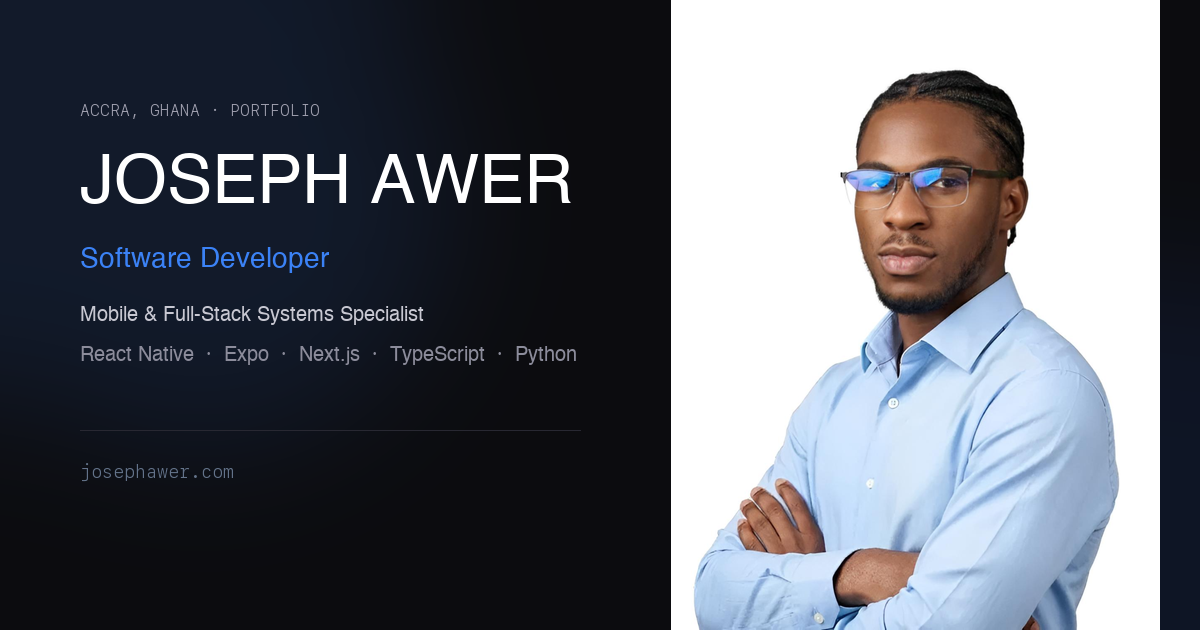
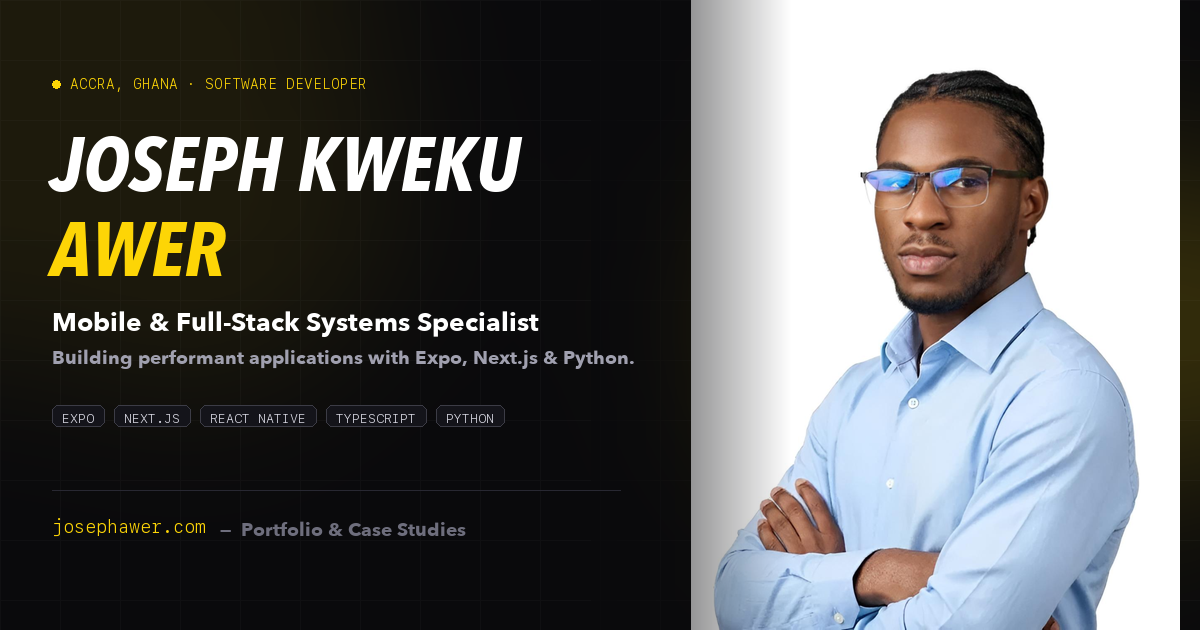
fix: update Open Graph image alt text with full name

diff --git a/src/app/layout.tsx b/src/app/layout.tsx
@@ -47,7 +47,7 @@ export const metadata: Metadata = {
         url: "/opengraph-image.png",
         width: 1200,
         height: 630,
-        alt: "Joseph Awer | Software Developer",
+        alt: "Joseph Kweku Awer | Software Developer",
       },
     ],
   },
